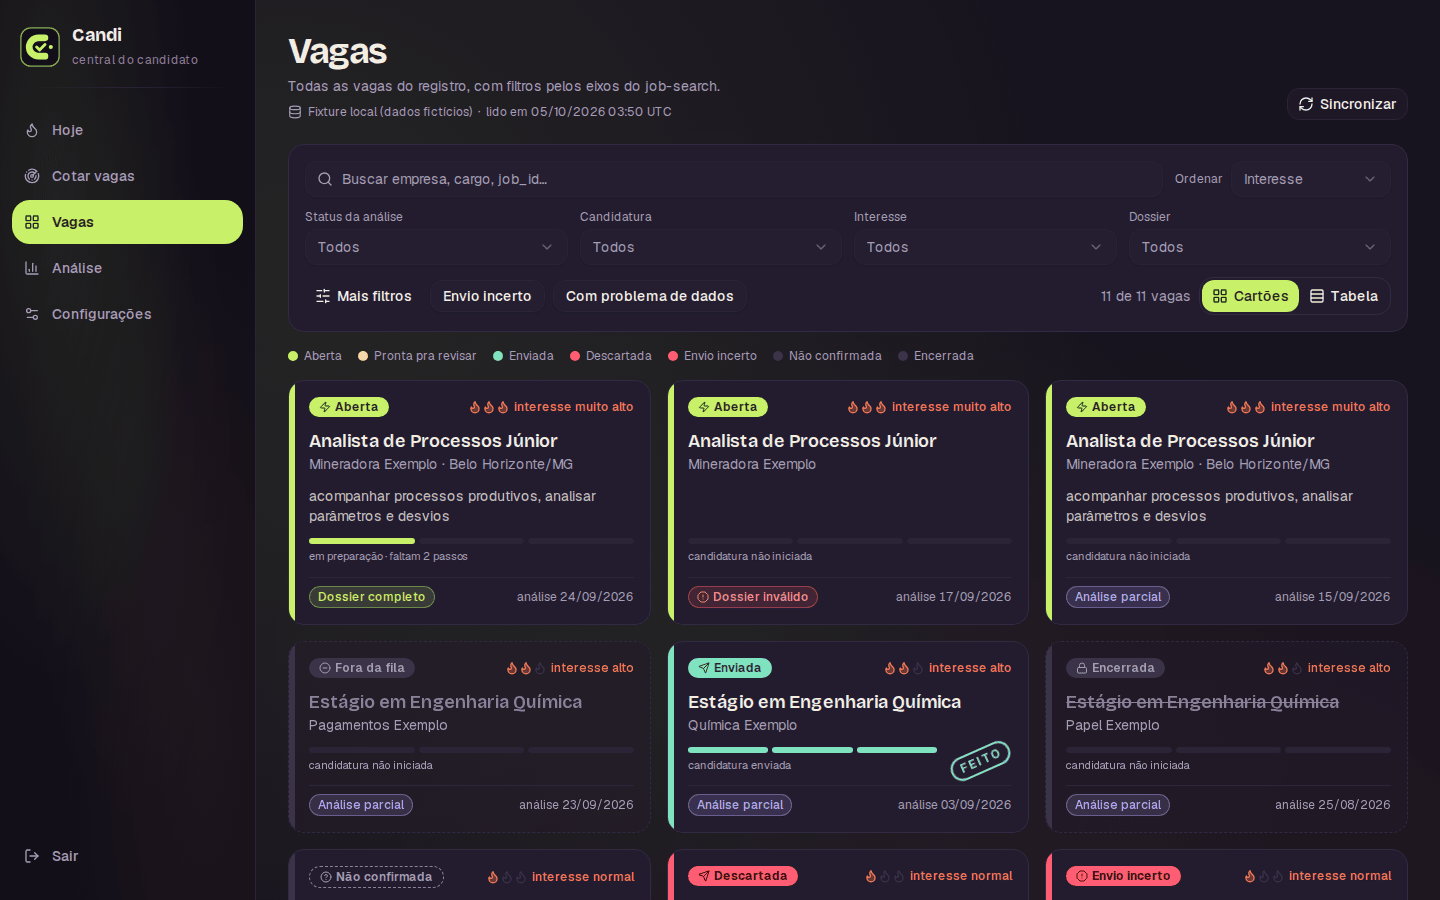
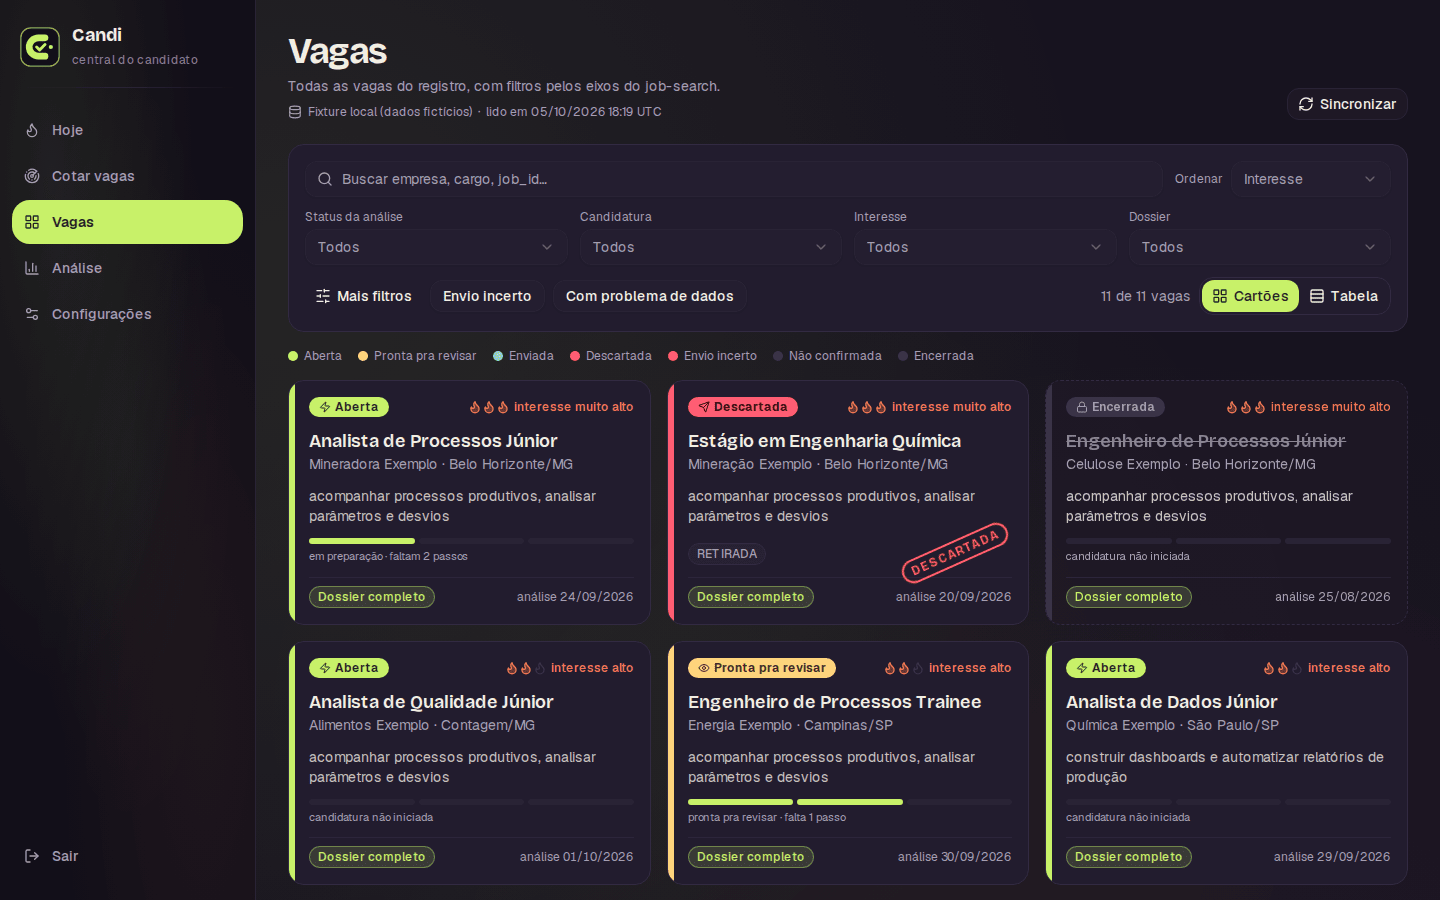
docs(screenshots): show the screens without error states
The repo fixture keeps an uncertain send, a tampered dossier and other
data problems on purpose for the tests, so the screenshots showed them
as if they were current bugs. Recapture every screen from a showcase
variant built with the same generator and job-search contract code:
every dossier valid, no uncertain send, no divergence, no value outside
the domain. The README note now says the data is fictitious without
pointing at the test fixture.

diff --git a/README.md b/README.md
@@ -4,7 +4,7 @@ Painel local em Next.js e TypeScript que transforma uma planilha de busca de vag
 
 ![Tela "Hoje": fila de candidaturas, meta semanal e alertas de qualidade dos dados](docs/screenshots/hoje-escuro.png)
 
-> Todos os prints usam a fixture local (`lib/job-search/fixtures/snapshot.json`): empresas e vagas fictícias.
+> Todos os prints usam dados fictícios (empresas e vagas de exemplo), gerados com o contrato do `job-search` pelo mesmo gerador da fixture local; nenhum dado real.
 
 ## O problema
 
